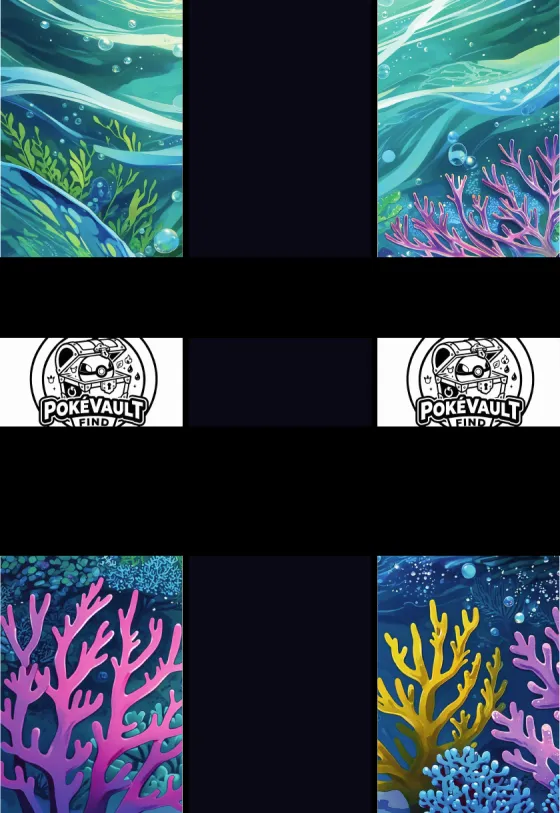
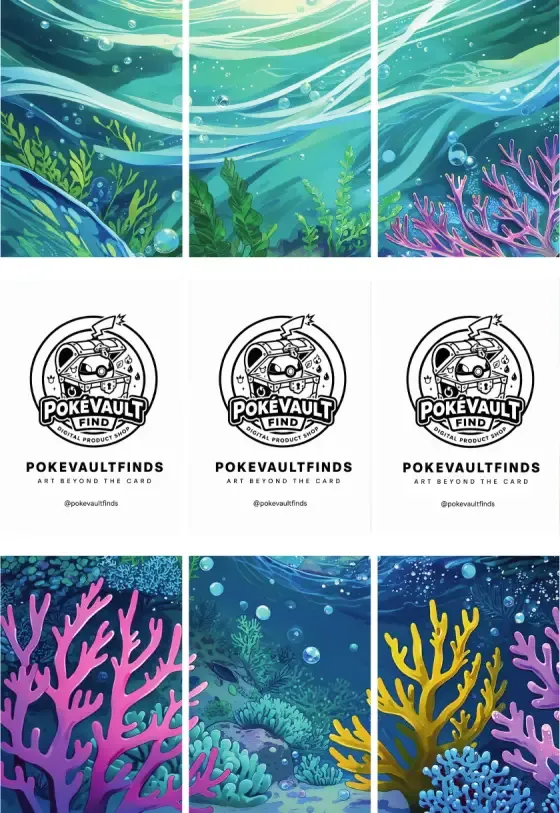
a

diff --git a/data/extendedArt.js b/data/extendedArt.js
@@ -1954,99 +1954,5 @@ export const extendedSingles = [
 }
 }
 ];
-export const extendedEvolutions = [
-{
-"id": "xe-mew-charizard-evolution",
-"name": "Charizard Evolution",
-"set": "151 (MEW)",
-"image": "/proxys/ExtendedArt/pv/mew-charizard-evolution.webp", "t": 26,
-"cards": [
-502556,
-517018,
-517045
-],
-"centers": [
-{
-"left": 33.69,
-"top": 0.0,
-"w": 32.62,
-"h": 31.64
-},
-{
-"left": 33.69,
-"top": 34.18,
-"w": 32.62,
-"h": 31.64
-},
-{
-"left": 33.69,
-"top": 68.36,
-"w": 32.62,
-"h": 31.64
-}
-]
-},
-{
-"id": "xe-cri-greninja-evolution",
-"name": "Greninja Evolution",
-"set": "Chaos Rising (CRI)",
-"image": "/proxys/ExtendedArt/pv/cri-greninja-evolution.webp", "t": 151,
-"cards": [
-693489,
-693491,
-693518
-],
-"centers": [
-{
-"left": 33.69,
-"top": 0.0,
-"w": 32.62,
-"h": 31.64
-},
-{
-"left": 33.69,
-"top": 34.18,
-"w": 32.62,
-"h": 31.64
-},
-{
-"left": 33.69,
-"top": 68.36,
-"w": 32.62,
-"h": 31.64
-}
-]
-},
-{
-"id": "xe-mew-blastoise-evolution",
-"name": "Blastoise Evolution",
-"set": "151 (MEW)",
-"image": "/proxys/ExtendedArt/pv/mew-blastoise-evolution.webp", "t": 152,
-"cards": [
-502549,
-517038,
-517046
-],
-"centers": [
-{
-"left": 33.69,
-"top": 0.0,
-"w": 32.62,
-"h": 31.64
-},
-{
-"left": 33.69,
-"top": 34.18,
-"w": 32.62,
-"h": 31.64
-},
-{
-"left": 33.69,
-"top": 68.36,
-"w": 32.62,
-"h": 31.64
-}
-]
-}
-];
+export const extendedEvolutions = [{"id": "xe-mew-charizard-evolution", "name": "Charizard Evolution", "set": "151 (MEW)", "image": "/proxys/ExtendedArt/pv/mew-charizard-evolution.webp", "t": 26, "cards": [517045, 517018, 502556], "centers": [{"left": 33.69, "top": 0.0, "w": 32.62, "h": 31.64}, {"left": 33.69, "top": 34.18, "w": 32.62, "h": 31.64}, {"left": 33.69, "top": 68.36, "w": 32.62, "h": 31.64}]}, {"id": "xe-cri-greninja-evolution", "name": "Greninja Evolution", "set": "Chaos Rising (CRI)", "image": "/proxys/ExtendedArt/pv/cri-greninja-evolution.webp", "t": 151, "cards": [693489, 693491, 693517], "centers": [{"left": 0.0, "top": 34.18, "w": 32.62, "h": 31.64}, {"left": 33.69, "top": 34.18, "w": 32.62, "h": 31.64}, {"left": 67.38, "top": 34.18, "w": 32.62, "h": 31.64}]}, {"id": "xe-mew-blastoise-evolution", "name": "Blastoise Evolution", "set": "151 (MEW)", "image": "/proxys/ExtendedArt/pv/mew-blastoise-evolution.webp", "t": 152, "cards": [502549, 517038, 517046], "centers": [{"left": 0.0, "top": 0.0, "w": 32.62, "h": 31.64}, {"left": 33.69, "top": 34.18, "w": 32.62, "h": 31.64}, {"left": 67.38, "top": 68.36, "w": 32.62, "h": 31.64}]}];
 export const SPRITE = { src: "/proxys/ExtendedArt/pv-sprite.webp", cols: 16, w: 68, h: 96 };
